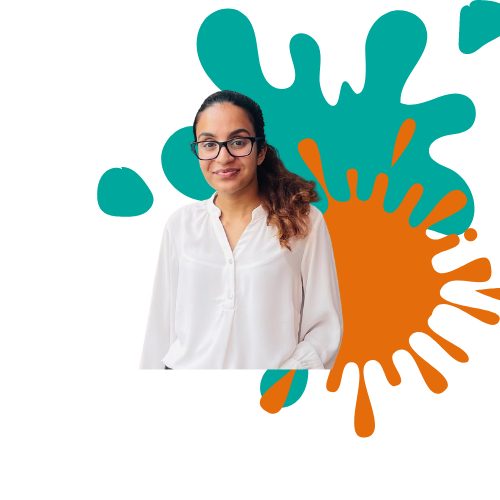
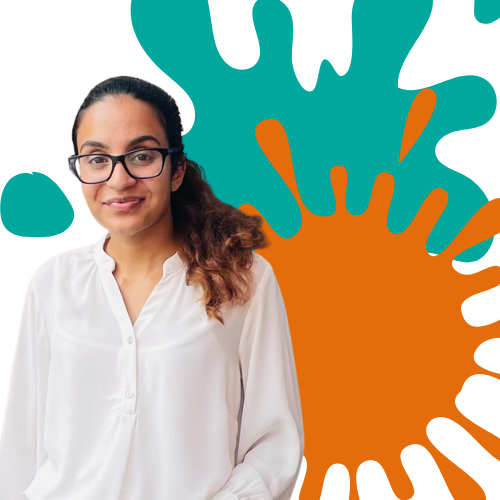
developed the front page.

diff --git a/mainPage.html b/mainPage.html
@@ -4,42 +4,51 @@
     <meta charset="UTF-8">
     <meta name="viewport" content="width=device-width, initial-scale=1.0">
     <link rel="stylesheet" href="style.css">
+    <link rel="stylesheet" href="https://cdnjs.cloudflare.com/ajax/libs/font-awesome/6.5.1/css/all.min.css" 
+    integrity="sha512-DTOQO9RWCH3ppGqcWaEA1BIZOC6xxalwEsw9c2QQeAIftl+Vegovlnee1c9QX4TctnWMn13TZye+giMm8e2LwA==" 
+    crossorigin="anonymous" referrerpolicy="no-referrer">
     <title>My Portfolio</title>
 </head>
 <body>
-    <!-- navigation bar -->
     <div>
-        <nav>
-            <ul>
-                <li><a href="#" class="style">Home</a></li>
-                <li><a href="#" class="style">About</a></li>
-                <li><a href="#" class="style">Projects</a></li>
-                <li><a href="#">Contact</a></li>
-            </ul>
-        </nav>
-    </div>   
+        <!-- navigation bar -->
+        <div>
+            <nav>
+                <ul>
+                    <li><a href="#" class="style">Home</a></li>
+                    <li><a href="#" class="style">About</a></li>
+                    <li><a href="#" class="style">Projects</a></li>
+                    <li><a href="#">Contact</a></li>
+                </ul>
+            </nav>
+        </div>   
 
-    <!-- side bar for socials -->
-    <div>
-        
-        <ul>
-            <li><a href="#">LinkedIn</a></li>
-            <li><a href="#">Github</a></li>
-            <li><a href="#">Facebook</a></li>
-            <li><a href="#">Instagram</a></li>
-                
-        </ul>
     
-    </div>   
+        <!-- content inside the main page -->
+        <div class=container>
+            <img src="Thanuri_photo-removebg.png" alt="photo of myself" height="10%" width="40%" class="mainPhoto">
+        </div>
 
-    <div>
-        <img src="Untitled design.png" alt="photo of myself">
+        <div class="intro">
+            <h1 class="word1"> HI! I'M THANURI </h1>
+            <h1 class="word2">Computer Science Undergraduate</h1>
+        </div>
 
-    </div>
+        <div><a class="button" href="#">See More</a></div>
 
-    <div>
-        <header>Hi! I'm Thanuri De Silva<br>Computer Science Undergraduate</header>
-    </div>
+        <!-- socials -->
+        <div class="socialIcons">
+            <a href=""><i class="fa-brands fa-facebook"></i></a>
+            <a href=""><i class="fa-brands fa-twitter"></i></a>
+            <a href=""><i class="fa-brands fa-linkedin"></i></a>
+            <a href=""><i class="fa-brands fa-instagram"></i></a>
+        </div>
+
+    
+
+        
+        
+    </div>    
     
 </body>
 </html>

diff --git a/style.css b/style.css
@@ -1,9 +1,16 @@
+html, body {
+    height: 100%;
+    margin: 0;
+    padding: 0;
+}  
+
 
 
 /* navigation bar  */
 nav{
     overflow: hidden;
     font-weight: bold;
+    font-size: medium;
 }
 nav ul{
     list-style-type: none;
@@ -14,8 +21,12 @@ nav ul{
 }
 
 nav li{
-    margin: 0 45px;
-    padding-top: 20px;
+    margin: 20px 45px;
+    padding: 10px 20px; 
+    border: 2px ;
+    background-color: rgba(68, 68, 68, 0.286);
+    border-radius: 20px;
+    
 }
 
 .style{
@@ -28,26 +39,91 @@ nav a{
     
 }
 
-.style:hover{
-    background-color: #a5a5a554 ;
-    cursor: pointer;
-    border-radius: 20px;
-    
-}
-
-nav li:last-child{
-    margin-top: 20px;
-    margin-left: 48rem;
-    display: inline-block;
-    padding: 10px 20px; 
-    border: 2px ;
-    border-radius: 20px;
-    background-color: rgba(68, 68, 68, 0.286);
-}
-
-nav li:last-child:hover{
+nav li:hover{
     background-color: #7c6d6d2b ;
     cursor: pointer;
+}
+
+
+nav li:last-child{
+    margin-left: 42rem;
+    display: inline-block;
+}
+
+
+/* content inside the main page */
+
+.mainPhoto {
+    position: relative;
+    left: 50%;
+}
+
+.intro{
+    position: absolute;
+    top: 25%;
+    left: 10%;
+}
+
+.word1{
+    font-size: 80px;
+    margin-bottom: 0;
+}
+.word2{
+    font-size: 40px;
+    margin-top: 0;
+}
+
+.button{
+    color: rgb(0, 0, 0);
+    position: absolute;
+    top: 48%;
+    left: 23%;
+    text-decoration: none;
+    font-weight: bold;
+    font-size: 25px;
+    background-color: rgba(101, 100, 100, 0.136);
+    margin: 20px 45px;
+    padding: 15px 25px; 
+    border: 2px ;
+    border-radius: 20px;
+}
+
+.button:hover{
+    cursor: pointer;
+    background-color: rgba(159, 95, 95, 0.419);
+}
+.button a :hover{
+    color: aliceblue;
+}
+
+.socialIcons{
+    position: absolute;
+    top: 61%;
+    left: 21%;
+}
+
+.socialIcons a {
+    text-decoration: none;
+    padding: 10px;
+    margin: 10px;
+}
+
+.socialIcons a i {
+    font-size: 2em;
+    color: black;
+    opacity: 0.9;
+}
+
+
+.socialIcons a:hover i {
+    color: rgb(75, 88, 209);
+    transition: 0.5s;
+
+}
+
+.socialIcons a:last-child:hover i{
+    color: rgba(177, 57, 57, 0.797);
+    transition: 0.5s;
 }
 
 

diff --git a/test.html b/test.html
@@ -1,0 +1,28 @@
+<!DOCTYPE html>
+<html lang="en">
+<head>
+  <meta charset="UTF-8">
+  <meta name="viewport" content="width=device-width, initial-scale=1.0">
+  <title>Abstract Shapes with SVG</title>
+  <style>
+    body {
+      margin: 0;
+      display: flex;
+      justify-content: center;
+      align-items: center;
+      height: 100vh;
+      background-color: #ffffff;
+    }
+  </style>
+</head>
+<body>
+
+  <svg width="300" height="300" xmlns="http://www.w3.org/2000/svg">
+    <path d="M150 0 C225 0 300 75 300 150 C300 225 225 300 150 300 C75 300 0 225 0 150 C0 75 75 0 150 0 Z" 
+          fill="#ff7000"/>
+    <circle cx="150" cy="150" r="75" fill="#00a8a8" />
+    <!-- <polygon points="150,75 200,150 150,225 100,150" fill="#ffffff" /> -->
+  </svg>
+
+</body>
+</html>
